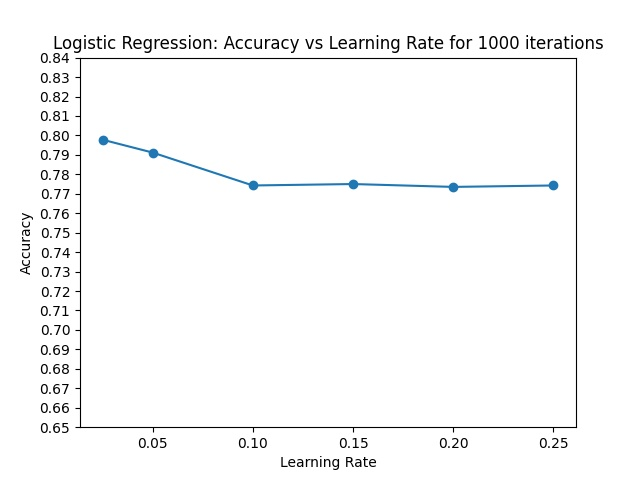
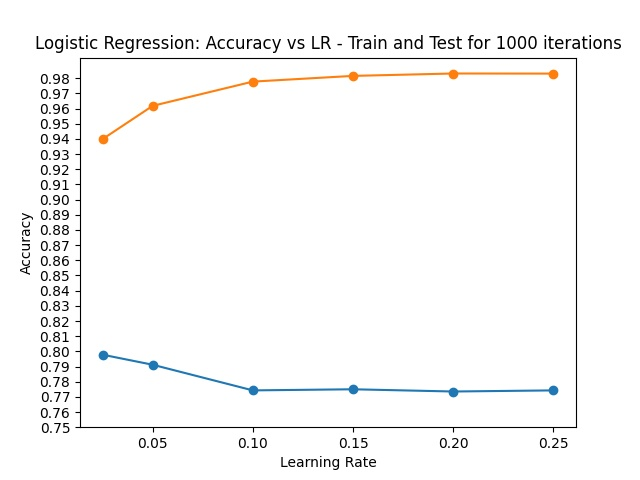
Final commit

diff --git a/Plotting.py b/Plotting.py
@@ -57,11 +57,25 @@ logistic_accuracies, perceptron_accuracies = [
     [0.7007352941176471, 0.7419117647058824, 0.7441176470588237, 0.7441176470588237, 0.7102941176470589, 0.6955882352941177]
     ]
 
+perceptron_train_accuracies, logistic_train_accuracies = [
+    [0.7458823529411764, 0.7469176470325257, 0.7558292398125176, 0.7779411764705882, 0.7802352923517265, 0.8155882352941176],
+    [0.7573529411764706, 0.7659292194635176, 0.7757352941176471, 0.7764705882352941, 0.7779411764705882, 0.8132352941176471],
+    [0.7316176470588235, 0.7657352941176471, 0.7846318420917684, 0.8132352941176471, 0.8073529411764706, 0.8735294117647059],
+    [0.7316176470588235, 0.7846318420917684, 0.8073529411764706, 0.8485123535239721, 0.8132352941176471, 0.8654411764705883],
+    [0.7323529411764705, 0.7779411764705882, 0.8335294117647059, 0.8654411764705883, 0.8470588235294118, 0.8639705882352942],
+], [
+    [0.8514705882352941, 0.8816176470588235, 0.8978921350215125, 0.9227941176470589, 0.9289715789235122, 0.9382352941176471],
+    [0.8830882352941176, 0.9073529411764706, 0.9198907502315908, 0.9455882352941176, 0.9588235294117647, 0.9588235294117647],
+    [0.9198529411764705, 0.9448529411764706, 0.9639705882352941, 0.9727941176470588, 0.9772058823529411, 0.9779411764705882],
+    [0.9299082672981759, 0.9562859204124259, 0.9707891235759292, 0.9727941176470588, 0.9289715789235122, 0.9819467862398598],
+    [0.9389512509238021, 0.9618239085230987, 0.9725072109821821, 0.9772058823529411, 0.9830882352941176, 0.9819467862398598],
+    [0.93988934117, 0.9618239085230987, 0.9778097321590823, 0.9815789127921371, 0.9831532526562236, 0.9830882352941176],
+]
 # for each value of max iterations, creating list of answers
 
 
-learning_rate_perceptron = [0.1, 0.2, 0.3, 0.4, 0.5, 0.6]
-max_iter_perceptron = [300, 500, 800, 1000, 1500]
+learning_rate_perceptron = [0.05, 0.075, 0.1, 0.2, 0.5, 0.8]
+max_iter_perceptron = [300, 500, 800, 1000, 1360]
 
 learning_rate_logistic = [0.025, 0.05, 0.1, 0.15, 0.2, 0.25]
 max_epochs_logistic = [50, 100, 300, 500, 800, 1000]
@@ -70,10 +84,13 @@ max_epochs_logistic = [50, 100, 300, 500, 800, 1000]
 for i in range(5):
     plt.plot(learning_rate_perceptron, perceptron_accuracies[i])
     plt.scatter(learning_rate_perceptron, perceptron_accuracies[i])
-    plt.title("Perceptron: Accuracy vs Learning Rate for %s examples"%max_iter_perceptron[i])
+    plt.plot(learning_rate_perceptron, perceptron_train_accuracies[i])
+    plt.scatter(learning_rate_perceptron, perceptron_train_accuracies[i])
+    plt.title("Perceptron: Accuracy vs LR - Train And Test for %s examples"%max_iter_perceptron[i])
     plt.xlabel("Learning Rate")
     plt.ylabel("Accuracy")
-    plt.yticks(np.arange(0.65,0.85,0.01))
+    plt.yticks(np.arange(0.65,0.91,0.01))
+    plt.xticks(np.array([0.05, 0.075, 0.1, 0.2, 0.5, 0.8]), rotation = 80)
     # plt.show()
     plt.savefig('perceptron_'+str(i)+'.jpg')
     plt.clf()
@@ -81,10 +98,12 @@ for i in range(5):
 for i in range(6):
     plt.plot(learning_rate_logistic, logistic_accuracies[i])
     plt.scatter(learning_rate_logistic, logistic_accuracies[i])
-    plt.title("Logistic Regression: Accuracy vs Learning Rate for %s iterations"%max_epochs_logistic[i])
+    plt.plot(learning_rate_logistic, logistic_train_accuracies[i])
+    plt.scatter(learning_rate_logistic, logistic_train_accuracies[i])
+    plt.title("Logistic Regression: Accuracy vs LR - Train and Test for %s iterations"%max_epochs_logistic[i])
     plt.xlabel("Learning Rate")
     plt.ylabel("Accuracy")
-    plt.yticks(np.arange(0.65,0.85,0.01))
+    plt.yticks(np.arange(0.75,0.99,0.01))
     # plt.show()
     plt.savefig('logistic_'+str(i)+'.jpg')
     plt.clf()

diff --git a/Execution.py b/Execution.py
@@ -59,7 +59,7 @@ def split_dataset(all_data):
     lr = Logistic()
 
     learning_rate_perceptron = [0.1, 0.2, 0.3, 0.4, 0.5, 0.6]
-    max_iter_perceptron = [300, 500, 800, 1000, 1500]
+    max_iter_perceptron = [300, 500, 800, 1000, 1360]
     perceptron_accuracies = []
     for j in range(6):
         for k in range(6):
@@ -155,21 +155,21 @@ if __name__ == '__main__':
     perceptron = Perceptron()
     logistic = Logistic()
 
-    perceptron.train(train_data)
+    # perceptron.train(train_data)
     logistic.train(train_data)
 
-    predicted_train_labels_perceptron = perceptron.predict(train_data)
-    predicted_test_labels_perceptron = perceptron.predict(test_data)
-    predicted_test_labels_unseen_perceptron = perceptron.predict(test_data_unseen)
+    # predicted_train_labels_perceptron = perceptron.predict(train_data)
+    # predicted_test_labels_perceptron = perceptron.predict(test_data)
+    # predicted_test_labels_unseen_perceptron = perceptron.predict(test_data_unseen)
 
     predicted_train_labels_logistic = logistic.predict(train_data)
     predicted_test_labels_logistic = logistic.predict(test_data)
     predicted_test_labels_unseen_logistic = logistic.predict(test_data_unseen)
 
-    print('\n\n-------------Perceptron Performance-------------\n')
-    # This command also runs the evaluation on the unseen test set
-    eval(train_data['Label'].tolist(), predicted_train_labels_perceptron, test_data['Label'].tolist(),
-         predicted_test_labels_perceptron, test_data_unseen['Label'].tolist(), predicted_test_labels_unseen_perceptron)
+    # print('\n\n-------------Perceptron Performance-------------\n')
+    # # This command also runs the evaluation on the unseen test set
+    # eval(train_data['Label'].tolist(), predicted_train_labels_perceptron, test_data['Label'].tolist(),
+    #      predicted_test_labels_perceptron, test_data_unseen['Label'].tolist(), predicted_test_labels_unseen_perceptron)
 
     print('\n\n-------------Logistic Function Performance-------------\n')
     # This command also runs the evaluation on the unseen test

diff --git a/Perceptron.py b/Perceptron.py
@@ -53,8 +53,8 @@ class Perceptron():
         """
         self.weights = None
         self.bias = None
-        self.learning_rate = 0.30
-        self.num_iterations = 1500
+        self.learning_rate = 0.20
+        self.num_iterations = 1360
         self.word_freq = None
         self.sample_size = 0
 
@@ -177,7 +177,7 @@ class Perceptron():
         gamma = 0.1
 
         #######################################################################
-        # check whether we should use num num_epochs or only number of examples for a single epoch
+        # using only number of examples as hyp for a single epoch
         for i in range(min(self.num_iterations, len(features))):
             # for i in range(len(features)):
             # Since labels[i] can never be 0, setting to this forces an update if neither work.

diff --git a/Logistic.py b/Logistic.py
@@ -53,8 +53,8 @@ class Logistic():
         """
         self.weights = None
         self.bias = None
-        self.learning_rate = 0.1
-        self.num_epochs = 300
+        self.learning_rate = 0.20
+        self.num_epochs = 800
         self.word_freq = None
         self.sample_size = 0
 
